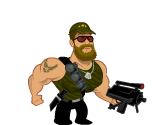
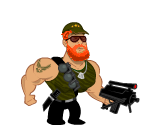
Changed beard colour and got rotation

Changed region(s): [[0.1212, 0.168, 0.9091, 1.0]]

diff --git a/keyboard.js b/keyboard.js
@@ -3,11 +3,17 @@ var Keyboard = function()
 {
 	var self = this;
 	
-	window.addEventListener('keydown', function(evt) {self.onKeyDown(evt);}, false);
-	window.addEventListener('keyup', function(evt) {self.onKeyUp(evt);}, false);
+	//these set it up so that our onKeyDown and onKeyUp function get called when
+	//keys are pressed and released.
+	window.addEventListener('keydown', function(evt) { self.onKeyDown(evt); }, false);
+	window.addEventListener('keyup', function(evt) { self.onKeyUp(evt); }, false);
 	
+	this.keyListeners = new Array();
 	this.keys = new Array();
 	
+	
+	//go to https://developer.mozilla.org/en-US/docs/DOM/KeyboardEvent to find more key
+	//constants.
 	this.KEY_SPACE = 32;
 	this.KEY_LEFT = 37;
 	this.KEY_UP = 38;
@@ -19,4 +25,19 @@ var Keyboard = function()
 	this.KEY_S = 83;
 	this.KEY_W = 87;
 	this.KEY_SHIFT = 16;
+};
+
+Keyboard.prototype.onKeyDown = function(evt)
+{
+	this.keys[evt.keyCode] = true;
+};
+
+Keyboard.prototype.onKeyUp = function(evt)
+{
+	this.keys[evt.keyCode] = false;
+};
+
+Keyboard.prototype.isKeyDown = function(keyCode)
+{
+	return this.keys[keyCode];
 };

diff --git a/main.js b/main.js
@@ -40,9 +40,14 @@ var fps = 0;
 var fpsCount = 0;
 var fpsTime = 0;
 
+//COMMENTED THIS OUT
 // load an image to draw
-var chuckNorris = document.createElement("img");
-chuckNorris.src = "hero.png";
+//var chuckNorris = document.createElement("img");
+//chuckNorris.src = "hero.png";
+
+//ADDED THESE LINES
+var keyboard = new Keyboard();
+var player = new Player();
 
 function run()
 {
@@ -51,8 +56,12 @@ function run()
 	
 	var deltaTime = getDeltaTime();
 	
-	context.drawImage(chuckNorris, SCREEN_WIDTH/2 - chuckNorris.width/2, SCREEN_HEIGHT/2 - chuckNorris.height/2);
+	//COMMENTED THIS OUT
+	//context.drawImage(chuckNorris, SCREEN_WIDTH/2 - chuckNorris.width/2, SCREEN_HEIGHT/2 - chuckNorris.height/2);
 	
+	//ADDED THESE LINES
+	player.update(deltaTime);
+	player.draw();
 		
 	// update the frame counter 
 	fpsTime += deltaTime;

diff --git a/Player.js b/Player.js
@@ -1,0 +1,42 @@
+var Player = function()
+{
+	this.image = document.createElement("img");
+
+	this.x = canvas.width / 2;
+	this.y = canvas.height /2;
+	
+	this.width = 159;
+	this.height = 163;
+	
+	this.velocityX = 0;
+	this.velocityY = 0;
+	
+	this.angularVelocity = 0;
+	
+	this.rotation = 0;
+	
+	this.image.src = "hero.png";
+};
+
+Player.prototype.update = function(deltaTime)
+{
+	if ( keyboard.isKeyDown(keyboard.KEY_SPACE) )
+	{
+		this.rotation += deltaTime;
+	}
+	else
+	{
+		this.rotation -= deltaTime;
+	}
+}
+
+Player.prototype.draw = function()
+{
+	context.save();
+	
+		context.translate(this.x, this.y);
+		context.rotate(this.rotation);
+		context.drawImage(this.image, -this.width / 2, -this.height /2);
+	
+	context.restore();
+}

diff --git a/index.html b/index.html
@@ -3,6 +3,8 @@
     <canvas id="gameCanvas" width="640" height="480">
           This text is displayed if your browser does not support HTML5.
     </canvas>
-    <script src="main.js"></script>
+    <script src="keyboard.js"></script>
+	<script src="player.js"></script>
+	<script src="main.js"></script>
   </body>
 </html>
